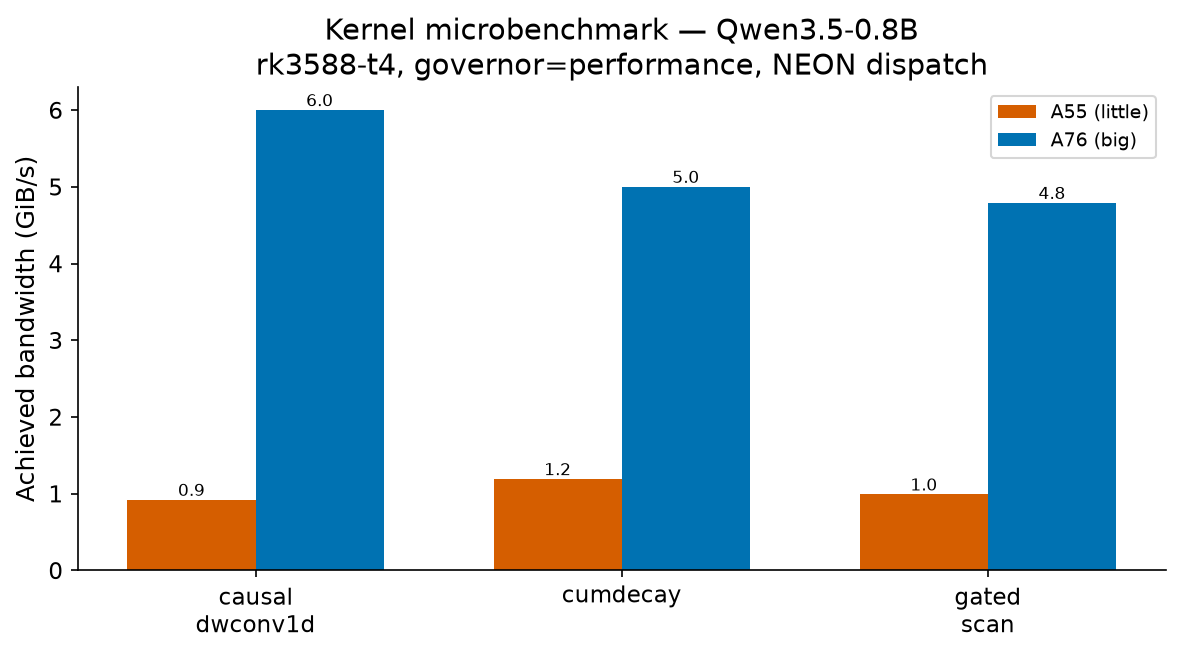
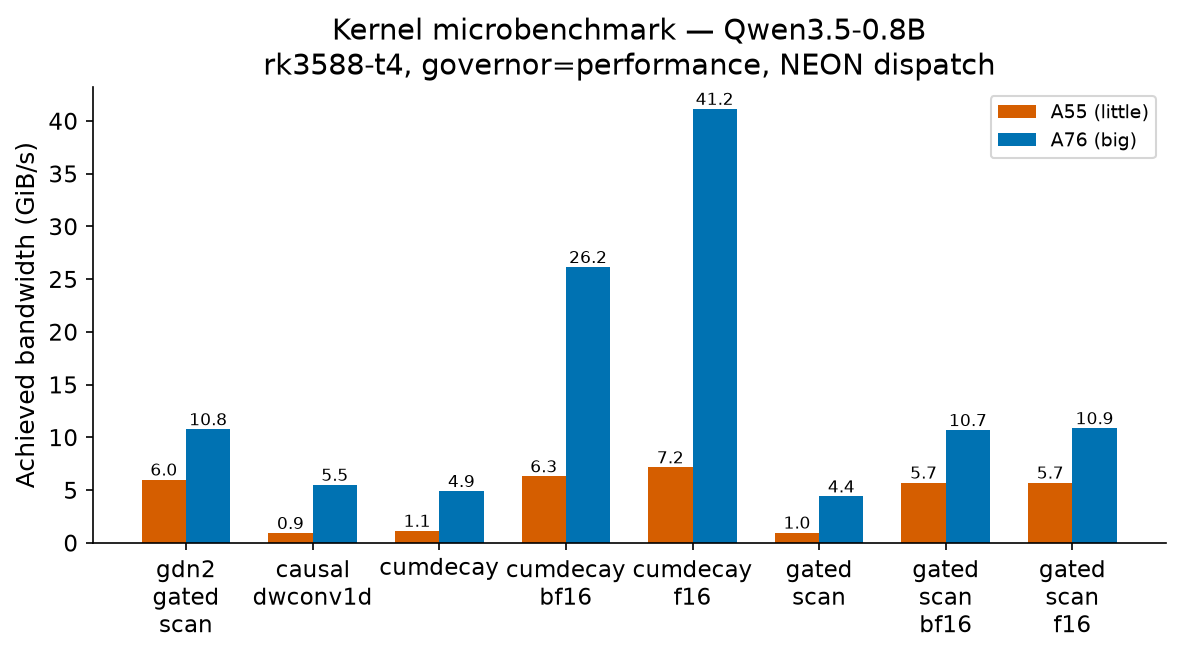
t4: fix plots.py CSV filtering + regenerate all figures with optimized data
Fixed: plot_kernel_bandwidth and generate_table were reading all
rk3588-*.csv files including model-level and per-layer profiling
CSVs with incompatible schemas. Now filters to _big/_little only.

Generated: memory_scaling, kernel_bandwidth (4B + 0.8B),
decode_traffic, comparison_table.md — all with optimized t4 data.

Changed region(s): [[0.0, 0.1527, 0.9763, 0.9771], [0.2136, 0.0305, 0.8542, 0.1221]]

diff --git a/bench/plots.py b/bench/plots.py
@@ -235,7 +235,10 @@ def plot_kernel_bandwidth() -> list[Path]:
 
     Reads all ``results/raw/rk3588-*.csv`` files.
     """
-    csvs = sorted(_RAW_DIR.glob("rk3588-*.csv"))
+    # Only device-microbenchmark CSVs (rk3588-{host}_{big|little}[_singlethread].csv).
+    # Exclude model-level and per-layer profiling CSVs which have different schemas.
+    csvs = sorted(c for c in _RAW_DIR.glob("rk3588-*.csv")
+                  if "_big" in c.stem or "_little" in c.stem)
     if not csvs:
         print("  (no rk3588 microbenchmark CSVs found, skipping)")
         return []
@@ -380,7 +383,8 @@ def generate_table() -> Path:
     ]
 
     # Kernel benchmark table
-    csvs = sorted(_RAW_DIR.glob("rk3588-*.csv"))
+    csvs = sorted(c for c in _RAW_DIR.glob("rk3588-*.csv")
+                  if "_big" in c.stem or "_little" in c.stem)
     if csvs:
         lines.append("| Device | Model | Kernel | Cluster | GiB/s (p50) | GFLOP/s | Spread % |")
         lines.append("|---|---|---|---|---:|---:|---:|")

diff --git a/results/figures/comparison_table.md b/results/figures/comparison_table.md
@@ -6,18 +6,146 @@ Auto-generated by `bench/plots.py --table`. All figures trace to committed CSVs 
 
 | Device | Model | Kernel | Cluster | GiB/s (p50) | GFLOP/s | Spread % |
 |---|---|---|---|---:|---:|---:|
-| rk3588-t4 | Qwen3.5-4B | `gdn_cumdecay` | A76 (big) | 4.25 | 0.57 | 3.4 |
-| rk3588-t4 | Qwen3.5-4B | `gdn_gated_scan` | A76 (big) | 3.29 | 0.58 | 17.4 |
-| rk3588-t4 | Qwen3.5-4B | `gdn_causal_dwconv1d` | A76 (big) | 4.52 | 4.60 | 8.8 |
-| rk3588-t4 | Qwen3.5-0.8B | `gdn_cumdecay` | A76 (big) | 5.00 | 0.67 | 4.2 |
-| rk3588-t4 | Qwen3.5-0.8B | `gdn_gated_scan` | A76 (big) | 4.79 | 0.85 | 3.1 |
-| rk3588-t4 | Qwen3.5-0.8B | `gdn_causal_dwconv1d` | A76 (big) | 6.00 | 6.10 | 5.6 |
-| rk3588-t4 | Qwen3.5-4B | `gdn_cumdecay` | A55 (little) | 0.97 | 0.13 | 10.3 |
-| rk3588-t4 | Qwen3.5-4B | `gdn_gated_scan` | A55 (little) | 0.55 | 0.10 | 12.1 |
-| rk3588-t4 | Qwen3.5-4B | `gdn_causal_dwconv1d` | A55 (little) | 0.71 | 0.73 | 9.9 |
-| rk3588-t4 | Qwen3.5-0.8B | `gdn_cumdecay` | A55 (little) | 1.19 | 0.16 | 5.3 |
-| rk3588-t4 | Qwen3.5-0.8B | `gdn_gated_scan` | A55 (little) | 0.99 | 0.17 | 2.2 |
-| rk3588-t4 | Qwen3.5-0.8B | `gdn_causal_dwconv1d` | A55 (little) | 0.92 | 0.94 | 63.9 |
+| rk3588-t3 | Qwen3.5-4B | `gdn_cumdecay` | A76 (big) | 4.13 | 0.55 | 14.7 |
+| rk3588-t3 | Qwen3.5-4B | `gdn_gated_scan` | A76 (big) | 1.96 | 0.35 | 153.1 |
+| rk3588-t3 | Qwen3.5-4B | `gdn_causal_dwconv1d` | A76 (big) | 4.02 | 4.09 | 35.6 |
+| rk3588-t3 | Qwen3.5-0.8B | `gdn_cumdecay` | A76 (big) | 4.92 | 0.66 | 3.1 |
+| rk3588-t3 | Qwen3.5-0.8B | `gdn_gated_scan` | A76 (big) | 4.41 | 0.78 | 5.5 |
+| rk3588-t3 | Qwen3.5-0.8B | `gdn_causal_dwconv1d` | A76 (big) | 5.51 | 5.61 | 3.9 |
+| rk3588-t3 | Qwen3.5-4B | `gdn_cumdecay` | A55 (little) | 0.87 | 0.12 | 57.9 |
+| rk3588-t3 | Qwen3.5-4B | `gdn_gated_scan` | A55 (little) | 0.35 | 0.06 | 29.3 |
+| rk3588-t3 | Qwen3.5-4B | `gdn_causal_dwconv1d` | A55 (little) | 0.65 | 0.66 | 38.7 |
+| rk3588-t3 | Qwen3.5-0.8B | `gdn_cumdecay` | A55 (little) | 1.15 | 0.15 | 1.6 |
+| rk3588-t3 | Qwen3.5-0.8B | `gdn_gated_scan` | A55 (little) | 0.98 | 0.17 | 266.8 |
+| rk3588-t3 | Qwen3.5-0.8B | `gdn_causal_dwconv1d` | A55 (little) | 0.94 | 0.95 | 4.5 |
+| rk3588-t4 | Qwen3.5-4B | `gdn_cumdecay` | A76 (big) | 24.26 | 3.26 | 10.9 |
+| rk3588-t4 | Qwen3.5-4B | `gdn_gated_scan` | A76 (big) | 11.48 | 2.03 | 7.5 |
+| rk3588-t4 | Qwen3.5-4B | `gdn_causal_dwconv1d` | A76 (big) | 21.02 | 21.40 | 3.6 |
+| rk3588-t4 | Qwen3.5-4B | `gdn_cumdecay_f16` | A76 (big) | 34.63 | 6.20 | 2.1 |
+| rk3588-t4 | Qwen3.5-4B | `gdn_gated_scan_f16` | A76 (big) | 11.57 | 2.06 | 9.0 |
+| rk3588-t4 | Qwen3.5-4B | `gdn_cumdecay_bf16` | A76 (big) | 25.11 | 4.49 | 1.5 |
+| rk3588-t4 | Qwen3.5-4B | `gdn_gated_scan_bf16` | A76 (big) | 11.58 | 2.06 | 7.8 |
+| rk3588-t4 | Qwen3.5-4B | `gdn2_gated_scan` | A76 (big) | 10.83 | 2.31 | 4.6 |
+| rk3588-t4 | Qwen3.5-0.8B | `gdn_cumdecay` | A76 (big) | 29.37 | 3.94 | 1.8 |
+| rk3588-t4 | Qwen3.5-0.8B | `gdn_gated_scan` | A76 (big) | 11.88 | 2.10 | 4.4 |
+| rk3588-t4 | Qwen3.5-0.8B | `gdn_causal_dwconv1d` | A76 (big) | 21.80 | 22.19 | 6.2 |
+| rk3588-t4 | Qwen3.5-0.8B | `gdn_cumdecay_f16` | A76 (big) | 41.16 | 7.37 | 1.6 |
+| rk3588-t4 | Qwen3.5-0.8B | `gdn_gated_scan_f16` | A76 (big) | 10.88 | 1.94 | 5.4 |
+| rk3588-t4 | Qwen3.5-0.8B | `gdn_cumdecay_bf16` | A76 (big) | 26.16 | 4.68 | 1.0 |
+| rk3588-t4 | Qwen3.5-0.8B | `gdn_gated_scan_bf16` | A76 (big) | 10.70 | 1.90 | 4.4 |
+| rk3588-t4 | Qwen3.5-0.8B | `gdn2_gated_scan` | A76 (big) | 10.78 | 2.30 | 3.1 |
+| rk3588-t4 | Qwen3.5-4B_decode | `gdn_cumdecay` | A76 (big) | 20.92 | 2.81 | 20.0 |
+| rk3588-t4 | Qwen3.5-4B_decode | `gdn_gated_scan` | A76 (big) | 37.36 | 4.01 | 0.0 |
+| rk3588-t4 | Qwen3.5-4B_decode | `gdn_causal_dwconv1d` | A76 (big) | 42.81 | 10.21 | 0.0 |
+| rk3588-t4 | Qwen3.5-4B_decode | `gdn_cumdecay_f16` | A76 (big) | 13.08 | 2.34 | 0.1 |
+| rk3588-t4 | Qwen3.5-4B_decode | `gdn_gated_scan_f16` | A76 (big) | 34.88 | 4.68 | 16.7 |
+| rk3588-t4 | Qwen3.5-4B_decode | `gdn_cumdecay_bf16` | A76 (big) | 13.07 | 2.34 | 16.6 |
+| rk3588-t4 | Qwen3.5-4B_decode | `gdn_gated_scan_bf16` | A76 (big) | 29.89 | 4.01 | 14.3 |
+| rk3588-t4 | Qwen3.5-4B_decode | `gdn2_gated_scan` | A76 (big) | 45.78 | 7.02 | 0.0 |
+| rk3588-t4 | Qwen3.5-0.8B_decode | `gdn_cumdecay` | A76 (big) | 10.46 | 1.40 | 0.1 |
+| rk3588-t4 | Qwen3.5-0.8B_decode | `gdn_gated_scan` | A76 (big) | 26.15 | 2.81 | 20.0 |
+| rk3588-t4 | Qwen3.5-0.8B_decode | `gdn_causal_dwconv1d` | A76 (big) | 29.43 | 7.02 | 12.5 |
+| rk3588-t4 | Qwen3.5-0.8B_decode | `gdn_cumdecay_f16` | A76 (big) | 7.84 | 1.40 | 20.0 |
+| rk3588-t4 | Qwen3.5-0.8B_decode | `gdn_gated_scan_f16` | A76 (big) | 20.91 | 2.81 | 20.0 |
+| rk3588-t4 | Qwen3.5-0.8B_decode | `gdn_cumdecay_bf16` | A76 (big) | 7.84 | 1.40 | 20.0 |
+| rk3588-t4 | Qwen3.5-0.8B_decode | `gdn_gated_scan_bf16` | A76 (big) | 17.44 | 2.34 | 16.7 |
+| rk3588-t4 | Qwen3.5-0.8B_decode | `gdn2_gated_scan` | A76 (big) | 36.61 | 5.62 | 20.0 |
+| rk3588-t4 | Qwen3.5-4B | `gdn_cumdecay` | A76 (big) | 7.21 | 0.97 | 7.9 |
+| rk3588-t4 | Qwen3.5-4B | `gdn_gated_scan` | A76 (big) | 5.29 | 0.94 | 11.2 |
+| rk3588-t4 | Qwen3.5-4B | `gdn_causal_dwconv1d` | A76 (big) | 6.35 | 6.47 | 8.7 |
+| rk3588-t4 | Qwen3.5-4B | `gdn_cumdecay_f16` | A76 (big) | 8.54 | 1.53 | 2.7 |
+| rk3588-t4 | Qwen3.5-4B | `gdn_gated_scan_f16` | A76 (big) | 5.27 | 0.94 | 23.3 |
+| rk3588-t4 | Qwen3.5-4B | `gdn_cumdecay_bf16` | A76 (big) | 5.93 | 1.06 | 27.9 |
+| rk3588-t4 | Qwen3.5-4B | `gdn_gated_scan_bf16` | A76 (big) | 5.37 | 0.96 | 20.3 |
+| rk3588-t4 | Qwen3.5-4B | `gdn2_gated_scan` | A76 (big) | 4.16 | 0.89 | 11.7 |
+| rk3588-t4 | Qwen3.5-0.8B | `gdn_cumdecay` | A76 (big) | 7.88 | 1.06 | 2.6 |
+| rk3588-t4 | Qwen3.5-0.8B | `gdn_gated_scan` | A76 (big) | 7.11 | 1.26 | 6.3 |
+| rk3588-t4 | Qwen3.5-0.8B | `gdn_causal_dwconv1d` | A76 (big) | 7.85 | 7.99 | 7.1 |
+| rk3588-t4 | Qwen3.5-0.8B | `gdn_cumdecay_f16` | A76 (big) | 9.37 | 1.68 | 2.6 |
+| rk3588-t4 | Qwen3.5-0.8B | `gdn_gated_scan_f16` | A76 (big) | 7.02 | 1.25 | 5.8 |
+| rk3588-t4 | Qwen3.5-0.8B | `gdn_cumdecay_bf16` | A76 (big) | 5.66 | 1.01 | 1.1 |
+| rk3588-t4 | Qwen3.5-0.8B | `gdn_gated_scan_bf16` | A76 (big) | 6.94 | 1.24 | 6.2 |
+| rk3588-t4 | Qwen3.5-0.8B | `gdn2_gated_scan` | A76 (big) | 7.58 | 1.62 | 5.0 |
+| rk3588-t4 | Qwen3.5-4B_decode | `gdn_cumdecay` | A76 (big) | 17.44 | 2.34 | 16.7 |
+| rk3588-t4 | Qwen3.5-4B_decode | `gdn_gated_scan` | A76 (big) | 32.70 | 3.51 | 0.0 |
+| rk3588-t4 | Qwen3.5-4B_decode | `gdn_causal_dwconv1d` | A76 (big) | 19.62 | 4.68 | 4.2 |
+| rk3588-t4 | Qwen3.5-4B_decode | `gdn_cumdecay_f16` | A76 (big) | 11.21 | 2.01 | 0.0 |
+| rk3588-t4 | Qwen3.5-4B_decode | `gdn_gated_scan_f16` | A76 (big) | 20.93 | 2.81 | 0.0 |
+| rk3588-t4 | Qwen3.5-4B_decode | `gdn_cumdecay_bf16` | A76 (big) | 8.72 | 1.56 | 11.1 |
+| rk3588-t4 | Qwen3.5-4B_decode | `gdn_gated_scan_bf16` | A76 (big) | 14.95 | 2.01 | 0.0 |
+| rk3588-t4 | Qwen3.5-4B_decode | `gdn2_gated_scan` | A76 (big) | 36.62 | 5.62 | 10.0 |
+| rk3588-t4 | Qwen3.5-0.8B_decode | `gdn_cumdecay` | A76 (big) | 13.08 | 1.76 | 25.0 |
+| rk3588-t4 | Qwen3.5-0.8B_decode | `gdn_gated_scan` | A76 (big) | 26.15 | 2.81 | 19.9 |
+| rk3588-t4 | Qwen3.5-0.8B_decode | `gdn_causal_dwconv1d` | A76 (big) | 23.54 | 5.62 | 10.0 |
+| rk3588-t4 | Qwen3.5-0.8B_decode | `gdn_cumdecay_f16` | A76 (big) | 7.85 | 1.40 | 0.1 |
+| rk3588-t4 | Qwen3.5-0.8B_decode | `gdn_gated_scan_f16` | A76 (big) | 17.44 | 2.34 | 0.1 |
+| rk3588-t4 | Qwen3.5-0.8B_decode | `gdn_cumdecay_bf16` | A76 (big) | 6.54 | 1.17 | 0.1 |
+| rk3588-t4 | Qwen3.5-0.8B_decode | `gdn_gated_scan_bf16` | A76 (big) | 13.08 | 1.76 | 0.0 |
+| rk3588-t4 | Qwen3.5-0.8B_decode | `gdn2_gated_scan` | A76 (big) | 30.52 | 4.68 | 0.1 |
+| rk3588-t4 | Qwen3.5-4B | `gdn_cumdecay` | A55 (little) | 5.87 | 0.79 | 18.9 |
+| rk3588-t4 | Qwen3.5-4B | `gdn_gated_scan` | A55 (little) | 3.91 | 0.69 | 35.2 |
+| rk3588-t4 | Qwen3.5-4B | `gdn_causal_dwconv1d` | A55 (little) | 5.30 | 5.39 | 7.7 |
+| rk3588-t4 | Qwen3.5-4B | `gdn_cumdecay_f16` | A55 (little) | 6.61 | 1.18 | 10.1 |
+| rk3588-t4 | Qwen3.5-4B | `gdn_gated_scan_f16` | A55 (little) | 3.85 | 0.69 | 23.1 |
+| rk3588-t4 | Qwen3.5-4B | `gdn_cumdecay_bf16` | A55 (little) | 5.89 | 1.05 | 9.3 |
+| rk3588-t4 | Qwen3.5-4B | `gdn_gated_scan_bf16` | A55 (little) | 3.90 | 0.70 | 27.6 |
+| rk3588-t4 | Qwen3.5-4B | `gdn2_gated_scan` | A55 (little) | 2.54 | 0.54 | 11.7 |
+| rk3588-t4 | Qwen3.5-0.8B | `gdn_cumdecay` | A55 (little) | 6.28 | 0.84 | 0.9 |
+| rk3588-t4 | Qwen3.5-0.8B | `gdn_gated_scan` | A55 (little) | 5.78 | 1.02 | 7.9 |
+| rk3588-t4 | Qwen3.5-0.8B | `gdn_causal_dwconv1d` | A55 (little) | 5.90 | 6.01 | 8.4 |
+| rk3588-t4 | Qwen3.5-0.8B | `gdn_cumdecay_f16` | A55 (little) | 7.17 | 1.28 | 2.9 |
+| rk3588-t4 | Qwen3.5-0.8B | `gdn_gated_scan_f16` | A55 (little) | 5.72 | 1.02 | 10.8 |
+| rk3588-t4 | Qwen3.5-0.8B | `gdn_cumdecay_bf16` | A55 (little) | 6.32 | 1.13 | 1.8 |
+| rk3588-t4 | Qwen3.5-0.8B | `gdn_gated_scan_bf16` | A55 (little) | 5.72 | 1.02 | 6.8 |
+| rk3588-t4 | Qwen3.5-0.8B | `gdn2_gated_scan` | A55 (little) | 6.01 | 1.28 | 7.6 |
+| rk3588-t4 | Qwen3.5-4B_decode | `gdn_cumdecay` | A55 (little) | 7.47 | 1.00 | 0.0 |
+| rk3588-t4 | Qwen3.5-4B_decode | `gdn_gated_scan` | A55 (little) | 15.38 | 1.65 | 5.9 |
+| rk3588-t4 | Qwen3.5-4B_decode | `gdn_causal_dwconv1d` | A55 (little) | 12.39 | 2.96 | 5.3 |
+| rk3588-t4 | Qwen3.5-4B_decode | `gdn_cumdecay_f16` | A55 (little) | 5.23 | 0.94 | 13.3 |
+| rk3588-t4 | Qwen3.5-4B_decode | `gdn_gated_scan_f16` | A55 (little) | 10.46 | 1.40 | 5.0 |
+| rk3588-t4 | Qwen3.5-4B_decode | `gdn_cumdecay_bf16` | A55 (little) | 4.36 | 0.78 | 5.5 |
+| rk3588-t4 | Qwen3.5-4B_decode | `gdn_gated_scan_bf16` | A55 (little) | 9.96 | 1.34 | 4.8 |
+| rk3588-t4 | Qwen3.5-4B_decode | `gdn2_gated_scan` | A55 (little) | 12.21 | 1.87 | 3.3 |
+| rk3588-t4 | Qwen3.5-0.8B_decode | `gdn_cumdecay` | A55 (little) | 3.74 | 0.50 | 0.0 |
+| rk3588-t4 | Qwen3.5-0.8B_decode | `gdn_gated_scan` | A55 (little) | 9.34 | 1.00 | 0.0 |
+| rk3588-t4 | Qwen3.5-0.8B_decode | `gdn_causal_dwconv1d` | A55 (little) | 6.73 | 1.60 | 2.9 |
+| rk3588-t4 | Qwen3.5-0.8B_decode | `gdn_cumdecay_f16` | A55 (little) | 2.80 | 0.50 | 7.1 |
+| rk3588-t4 | Qwen3.5-0.8B_decode | `gdn_gated_scan_f16` | A55 (little) | 6.54 | 0.88 | 6.3 |
+| rk3588-t4 | Qwen3.5-0.8B_decode | `gdn_cumdecay_bf16` | A55 (little) | 2.62 | 0.47 | 0.0 |
+| rk3588-t4 | Qwen3.5-0.8B_decode | `gdn_gated_scan_bf16` | A55 (little) | 6.15 | 0.83 | 0.0 |
+| rk3588-t4 | Qwen3.5-0.8B_decode | `gdn2_gated_scan` | A55 (little) | 8.72 | 1.34 | 4.8 |
+| rk3588-t4 | Qwen3.5-4B | `gdn_cumdecay` | A55 (little) | 1.37 | 0.18 | 24.2 |
+| rk3588-t4 | Qwen3.5-4B | `gdn_gated_scan` | A55 (little) | 0.76 | 0.14 | 41.3 |
+| rk3588-t4 | Qwen3.5-4B | `gdn_causal_dwconv1d` | A55 (little) | 1.24 | 1.26 | 49.2 |
+| rk3588-t4 | Qwen3.5-4B | `gdn_cumdecay_f16` | A55 (little) | 1.57 | 0.28 | 81.4 |
+| rk3588-t4 | Qwen3.5-4B | `gdn_gated_scan_f16` | A55 (little) | 0.81 | 0.14 | 32.4 |
+| rk3588-t4 | Qwen3.5-4B | `gdn_cumdecay_bf16` | A55 (little) | 1.51 | 0.27 | 4.7 |
+| rk3588-t4 | Qwen3.5-4B | `gdn_gated_scan_bf16` | A55 (little) | 0.80 | 0.14 | 19.8 |
+| rk3588-t4 | Qwen3.5-4B | `gdn2_gated_scan` | A55 (little) | 0.73 | 0.16 | 4.5 |
+| rk3588-t4 | Qwen3.5-0.8B | `gdn_cumdecay` | A55 (little) | 1.57 | 0.21 | 70.3 |
+| rk3588-t4 | Qwen3.5-0.8B | `gdn_gated_scan` | A55 (little) | 1.45 | 0.26 | 9.6 |
+| rk3588-t4 | Qwen3.5-0.8B | `gdn_causal_dwconv1d` | A55 (little) | 1.54 | 1.57 | 4.5 |
+| rk3588-t4 | Qwen3.5-0.8B | `gdn_cumdecay_f16` | A55 (little) | 1.85 | 0.33 | 7.6 |
+| rk3588-t4 | Qwen3.5-0.8B | `gdn_gated_scan_f16` | A55 (little) | 1.47 | 0.26 | 7.6 |
+| rk3588-t4 | Qwen3.5-0.8B | `gdn_cumdecay_bf16` | A55 (little) | 1.61 | 0.29 | 44.2 |
+| rk3588-t4 | Qwen3.5-0.8B | `gdn_gated_scan_bf16` | A55 (little) | 1.45 | 0.26 | 39.2 |
+| rk3588-t4 | Qwen3.5-0.8B | `gdn2_gated_scan` | A55 (little) | 1.44 | 0.31 | 22.6 |
+| rk3588-t4 | Qwen3.5-4B_decode | `gdn_cumdecay` | A55 (little) | 4.36 | 0.59 | 4.2 |
+| rk3588-t4 | Qwen3.5-4B_decode | `gdn_gated_scan` | A55 (little) | 4.76 | 0.51 | 1.8 |
+| rk3588-t4 | Qwen3.5-4B_decode | `gdn_causal_dwconv1d` | A55 (little) | 2.66 | 0.63 | 1.1 |
+| rk3588-t4 | Qwen3.5-4B_decode | `gdn_cumdecay_f16` | A55 (little) | 3.02 | 0.54 | 11.5 |
+| rk3588-t4 | Qwen3.5-4B_decode | `gdn_gated_scan_f16` | A55 (little) | 4.36 | 0.59 | 2.1 |
+| rk3588-t4 | Qwen3.5-4B_decode | `gdn_cumdecay_bf16` | A55 (little) | 2.38 | 0.43 | 0.0 |
+| rk3588-t4 | Qwen3.5-4B_decode | `gdn_gated_scan_bf16` | A55 (little) | 3.74 | 0.50 | 1.8 |
+| rk3588-t4 | Qwen3.5-4B_decode | `gdn2_gated_scan` | A55 (little) | 3.90 | 0.60 | 2.1 |
+| rk3588-t4 | Qwen3.5-0.8B_decode | `gdn_cumdecay` | A55 (little) | 3.49 | 0.47 | 0.0 |
+| rk3588-t4 | Qwen3.5-0.8B_decode | `gdn_gated_scan` | A55 (little) | 5.94 | 0.64 | 4.5 |
+| rk3588-t4 | Qwen3.5-0.8B_decode | `gdn_causal_dwconv1d` | A55 (little) | 2.45 | 0.59 | 9.4 |
+| rk3588-t4 | Qwen3.5-0.8B_decode | `gdn_cumdecay_f16` | A55 (little) | 2.31 | 0.41 | 0.0 |
+| rk3588-t4 | Qwen3.5-0.8B_decode | `gdn_gated_scan_f16` | A55 (little) | 4.76 | 0.64 | 4.5 |
+| rk3588-t4 | Qwen3.5-0.8B_decode | `gdn_cumdecay_bf16` | A55 (little) | 1.96 | 0.35 | 0.0 |
+| rk3588-t4 | Qwen3.5-0.8B_decode | `gdn_gated_scan_bf16` | A55 (little) | 3.87 | 0.52 | 3.7 |
+| rk3588-t4 | Qwen3.5-0.8B_decode | `gdn2_gated_scan` | A55 (little) | 4.58 | 0.70 | 2.5 |
 
 ## Memory decomposition — Qwen3.5-4B (analytical, from config)
 
